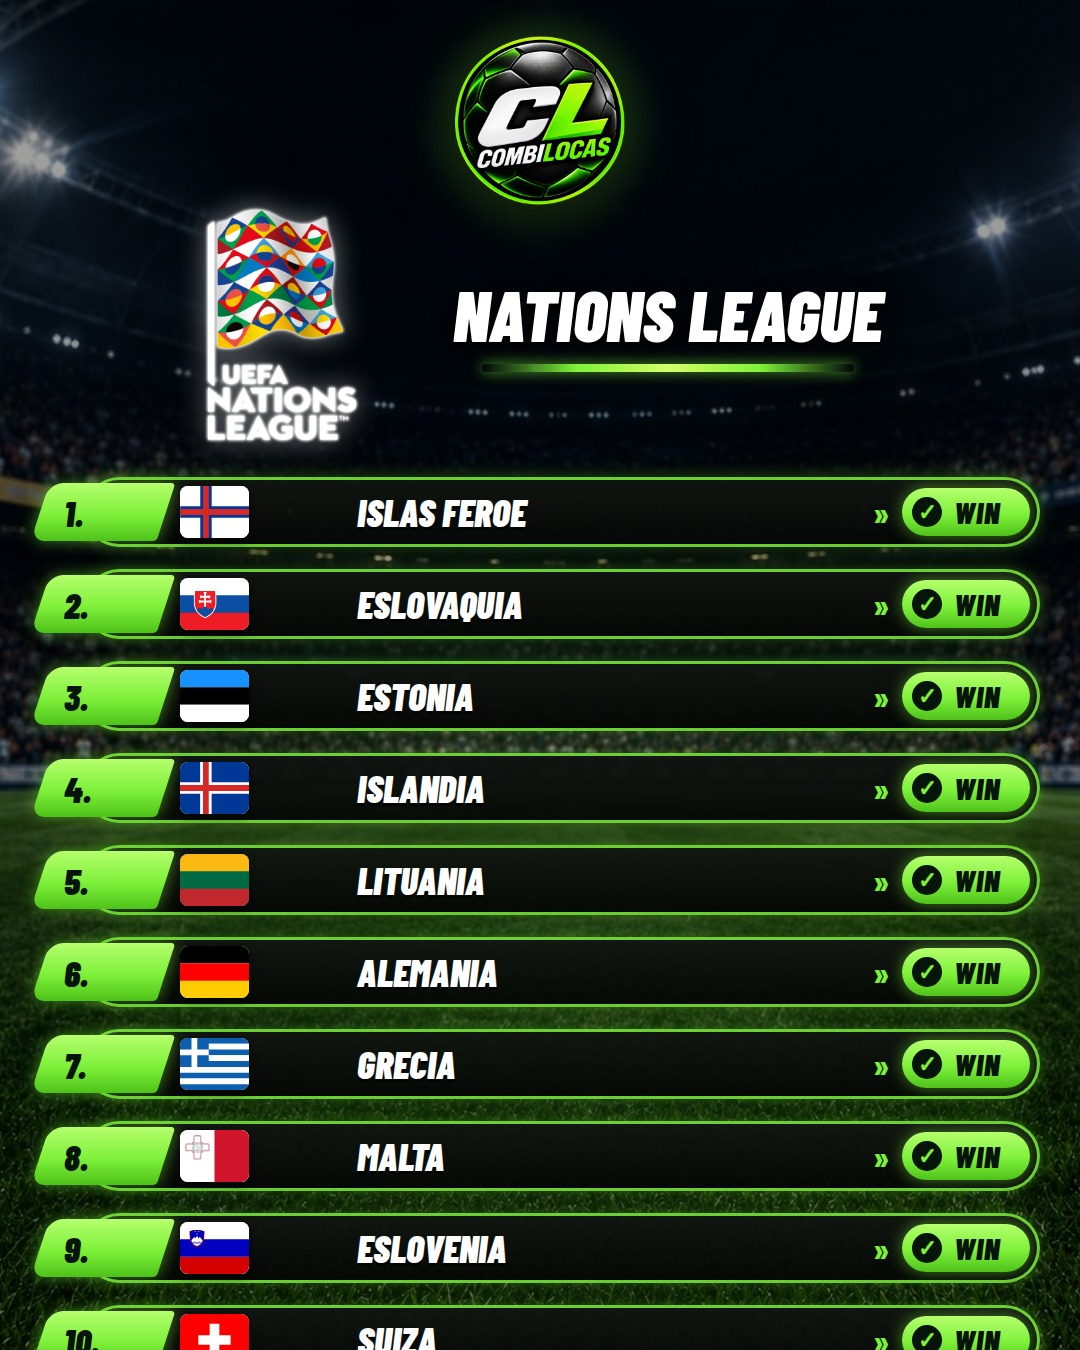
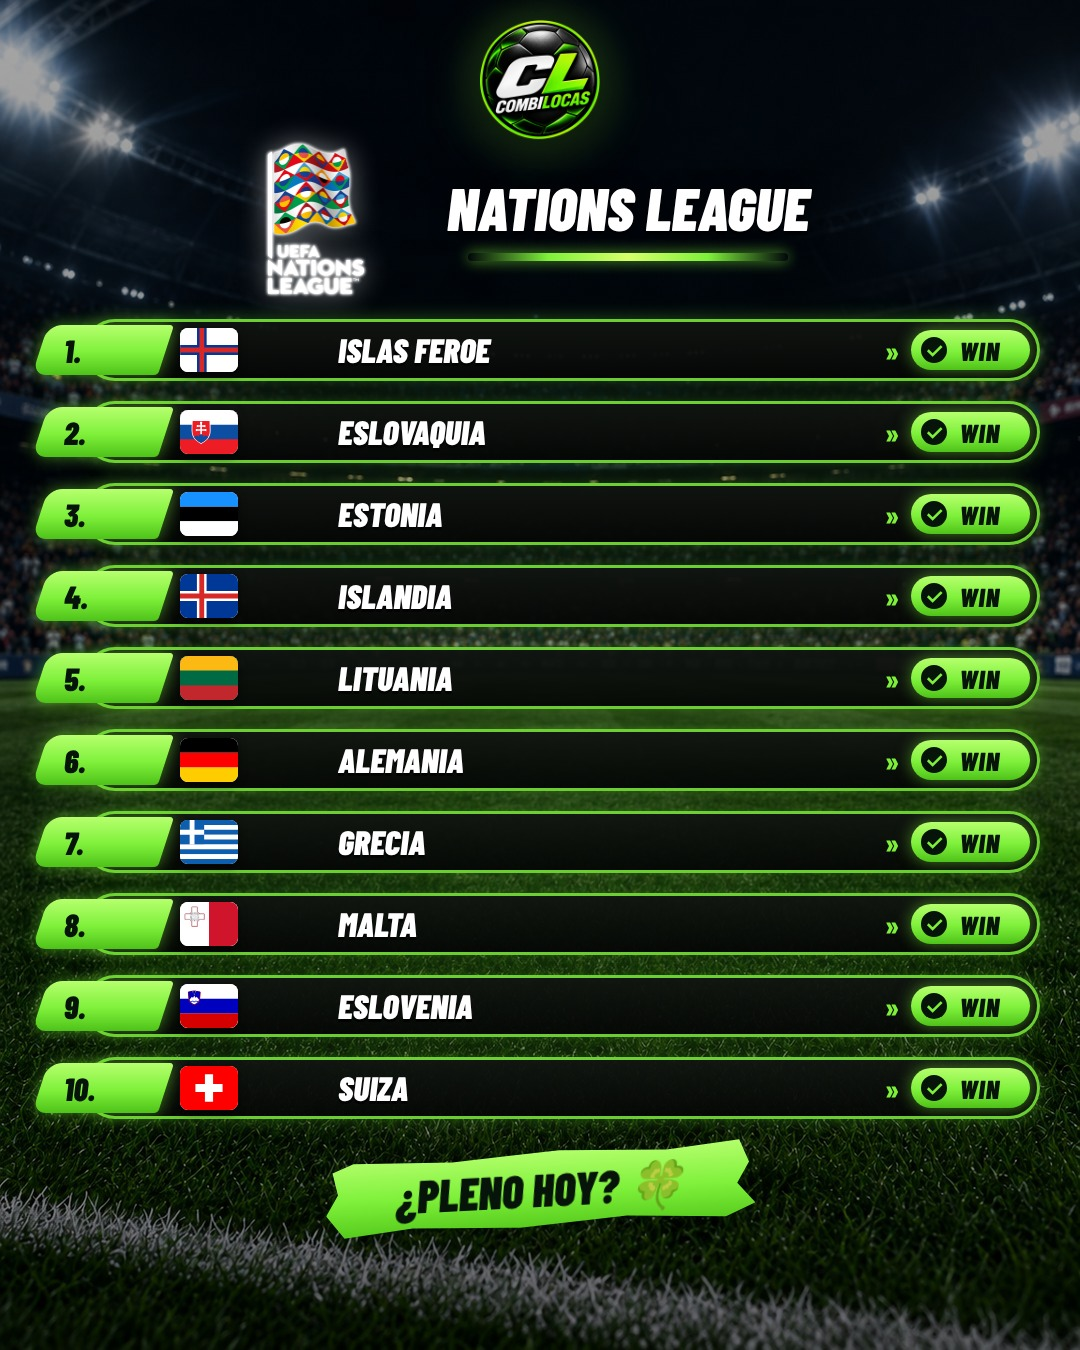
Ganadores de 10 filas sin cortar; Nations repuesta en Threads sin foto (Marcos)
Claude-Session: https://claude.ai/code/session_01H8yo2hvFsocWgiXX8LNWo6

diff --git a/fotos.py b/fotos.py
@@ -595,7 +595,8 @@ def quien_gana(filas, titulo, sub=None, liga=None, alto=1350, lema=None):
     bandera dibujada, escudo, flecha y WIN) sobre el fondo del logo nuevo. Selecciones: solo su bandera (no se repite)."""
     from ganadores_img import BANDERAS_SVG, _bandera
     n = len(filas)
-    h = 112 if n <= 6 else 100 if n <= 8 else 84
+    h = 112 if n <= 6 else 100 if n <= 8 else 76 if n <= 10 else 64
+    apretado = n > 8   # 16/11 (Marcos: la de 10 selecciones «se veía cortada»): cabecera más pequeña para que quepan
     css = (QG_CSS + (QG_CL if CL else "")) % {"h": h, "nh": h - 26, "nf": h // 2 - 6, "fw": int((h - 32) * 4 / 3), "fh": h - 32, "fe": h // 2,
                     "eh": h - 22, "nomf": h // 2 - 4, "ph": h - 36, "pf": h // 2 - 12, "ck": h // 2 - 12, "ckf": h // 4 + 2,
                     "letra": LETRA}
@@ -616,12 +617,13 @@ def quien_gana(filas, titulo, sub=None, liga=None, alto=1350, lema=None):
                 f'<div class="nom" style="font-size:{_tam(nombre, h // 2 - 4, 14)}px">{e(nombre)}</div><div class="flecha">{"»" if CL else "➜"}</div>'
                 f'<div class="pick"><div class="ck">{marca}</div><b>{e(f.get("pick", "WIN"))}</b></div></div>')
     cuerpo = (
-        f'<div style="margin-top:{36 if n > 5 else 0}px">{logo_img(170 if n > 5 else 220)}</div>'
-        + (f'<div style="margin-top:4px;display:flex;align-items:center;gap:26px">{_logo_liga(liga, 230)}'
-           f'{_cinta(e(titulo or "QUIÉN GANA HOY"), 66)}</div>' if _logo_liga(liga, 230) else
+        f'<div style="margin-top:{20 if apretado else 36 if n > 5 else 0}px">{logo_img(120 if apretado else 170 if n > 5 else 220)}</div>'
+        + (f'<div style="margin-top:4px;display:flex;align-items:center;gap:26px">{_logo_liga(liga, 150 if apretado else 230)}'
+           f'{_cinta(e(titulo or "QUIÉN GANA HOY"), 56 if apretado else 66)}</div>' if _logo_liga(liga, 230) else
            f'<div style="margin-top:4px">{_cinta(e(titulo or "QUIÉN GANA HOY"), 70)}</div>')
         + (f'<div style="margin-top:14px;font-weight:700;font-size:32px;letter-spacing:3px;color:#c9d4ff">{e(sub)}</div>' if sub else "")
-        + f'<div style="margin-top:30px;display:flex;flex-direction:column;gap:8px">{lis}</div>'
-        f'<div style="margin:36px 0 64px;display:flex;justify-content:center">{_brocha((lema or "¿LA PINTAMOS DE VERDE?") + " 🍀", 54)}</div>')
+        + f'<div style="margin-top:{18 if apretado else 30}px;display:flex;flex-direction:column;gap:{6 if apretado else 8}px">{lis}</div>'
+        f'<div style="margin:{22 if apretado else 36}px 0 {30 if apretado else 64}px;display:flex;justify-content:center">'
+        f'{_brocha((lema or "¿LA PINTAMOS DE VERDE?") + " 🍀", 46 if apretado else 54)}</div>')
     centrar = f"body{{justify-content:center;height:{alto}px}}" if n <= 5 or alto > 1350 else ""   # pocas filas: centrado
     return _html(cuerpo, 1080, alto, extra=css + centrar)

diff --git a/tests/test_ganadores_diez.py b/tests/test_ganadores_diez.py
@@ -1,0 +1,28 @@
+"""16/11 (Marcos): la tarjeta de 10 selecciones de la Nations salía cortada (la 10.ª a medias) y la borró;
+pidió subirla sin foto. Una tarjeta GANADORES de 9-12 filas tiene que caber entera, y «sin_foto» = Threads sin foto."""
+import unittest
+
+
+class GanadoresDiez(unittest.TestCase):
+    def test_sin_foto_en_threads(self):
+        import redes
+        p = {"id": "2026-11-16-ganadores-nations-texto", "texto": "x", "sin_foto": True}
+        self.assertIsNone(redes.foto_threads(p))
+
+    def test_diez_filas_caben(self):
+        import fotos
+        from playwright.sync_api import sync_playwright
+        for n in (9, 10, 12):
+            filas = [{"nombre": f"Equipo {i}", "pais": "Spain", "bandera": "🇪🇸", "pick": "WIN"} for i in range(n)]
+            html = fotos.quien_gana(filas, "NATIONS LEAGUE", lema="¿PLENO HOY?")
+            with sync_playwright() as p:
+                b = p.chromium.launch()
+                pg = b.new_page(viewport={"width": 1080, "height": 1350})
+                pg.set_content(html)
+                alto = pg.evaluate("document.body.scrollHeight")
+                b.close()
+            self.assertLessEqual(alto, 1350, f"{n} filas: {alto}px")
+
+
+if __name__ == "__main__":
+    unittest.main()

diff --git a/ganadores_img.py b/ganadores_img.py
@@ -261,6 +261,10 @@ def generar(filas, titulo, salida, plantilla="oro", liga=None, lema=None):
         pg.set_content(html_estadio(filas, titulo, liga, lema) if plantilla == "estadio" else
                        hacer(filas, titulo, liga) if plantilla == "oro" else hacer(filas, titulo))
         pg.wait_for_timeout(800)
+        alto = pg.evaluate("document.body.scrollHeight")
+        if alto > h:   # 16/11: nunca una tarjeta cortada (la de 10 selecciones se cortaba): se encoge hasta que quepa
+            pg.evaluate(f"document.body.style.zoom = {h / alto:.4f}")
+            pg.wait_for_timeout(300)
         pg.screenshot(path=str(salida), type="jpeg", quality=92)
         b.close()
     return salida

diff --git a/redes.py b/redes.py
@@ -120,6 +120,8 @@ def url_media(p, ext):
 
 def foto_threads(p):
     """12/11 (Marcos: «pick del día y ganadores»): la única foto que lleva un post en Threads (o None)."""
+    if p.get("sin_foto"):   # 16/11 (Marcos: «súbela sin foto, si son tantas cosas no hace falta»)
+        return None
     if p.get("ganadores_img") or "-ganadores" in p["id"]:
         return url_media(p, "tarjeta.jpg")
     if re.search(r"-pick-seguro$", p["id"]):

diff --git a/informes/bitacora/2026-11.md b/informes/bitacora/2026-11.md
@@ -565,3 +565,4 @@ Idea pendiente de tu OK: escalera con dobles de favoritos de 1.30–1.50 en vez 
 - 15/11 23:45 · Revisión de la otra sesión. (1) Repetidos: un post con los mismos picks que otro ya publicado ese día en la misma red no sale (salvo que el original esté en borrados.json o el nuevo lleve «repuesto_de») — comprobar_post.duplicado. (3) Resumen: la cuenta es de los posts subidos (cuadra con «Para dentro») y cuenta lo subido la noche antes con id del día (faltaba España–Inglaterra). test_duplicados_15nov.
 - 15/11 23:55 · (2) Combis de un partido con escudos: cuota de la calculadora con «aprox.» en vez de esperar a Marcos (Marcos: «sí»). Las ya generadas del 21-22/11 se rehacen solas al regenerar auto.json. test_crear_calculadora_post.
 - 15/11 23:50 · Verdes que faltaban en Threads (Inglaterra remates, Bélgica–Italia, Francia córners: sus posts de Threads eran «-e»/«-t» con otro id) puestos como comentario. Arreglo: verdes_auto pone el comentario en cada post de la familia que salió en Threads. Revisados los no seguidos: Madrid CFF 2-3, Finlandia 7-2 (BTTS no), Legnago 1-1, combi personal/larga (Eibar 1-1, Cittadella 2-2, Valencia–Granada 0-0): ninguno entró.
+- 16/11 00:25 · Tarjeta GANADORES de 10 filas salía cortada (Marcos borró la de Nations en Threads): cabecera más pequeña con 9+ filas y, si aun así no cabe, se encoge (fotos.quien_gana, ganadores_img.generar). Nuevo «sin_foto» en redes.foto_threads; la de Nations se repone en Threads solo texto (2026-11-16-ganadores-nations-texto, repuesto_de). Test: test_ganadores_diez.
